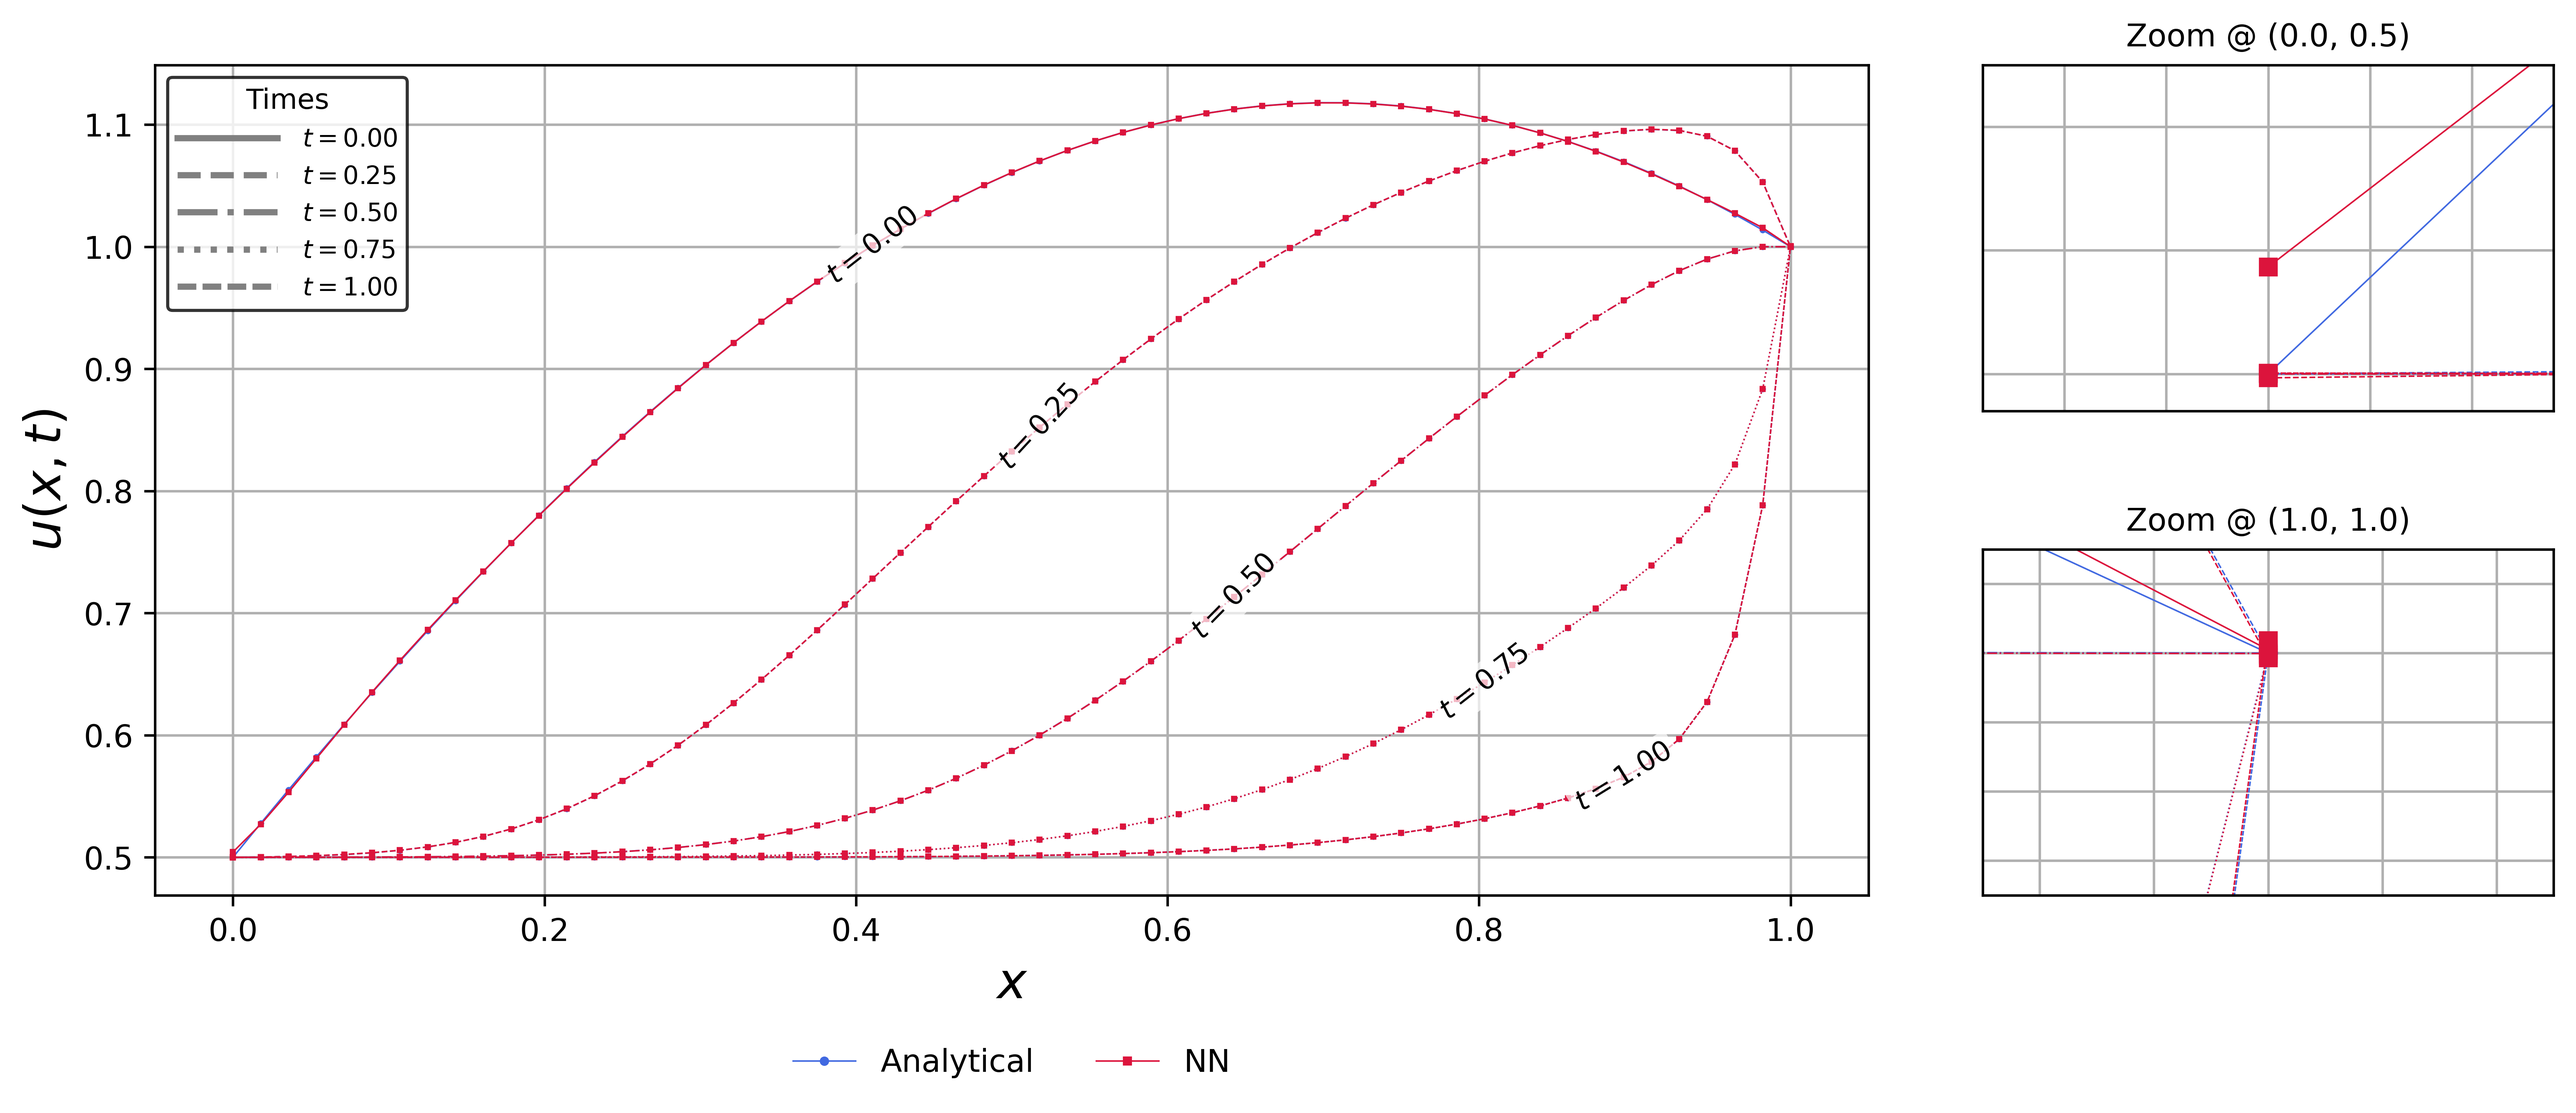
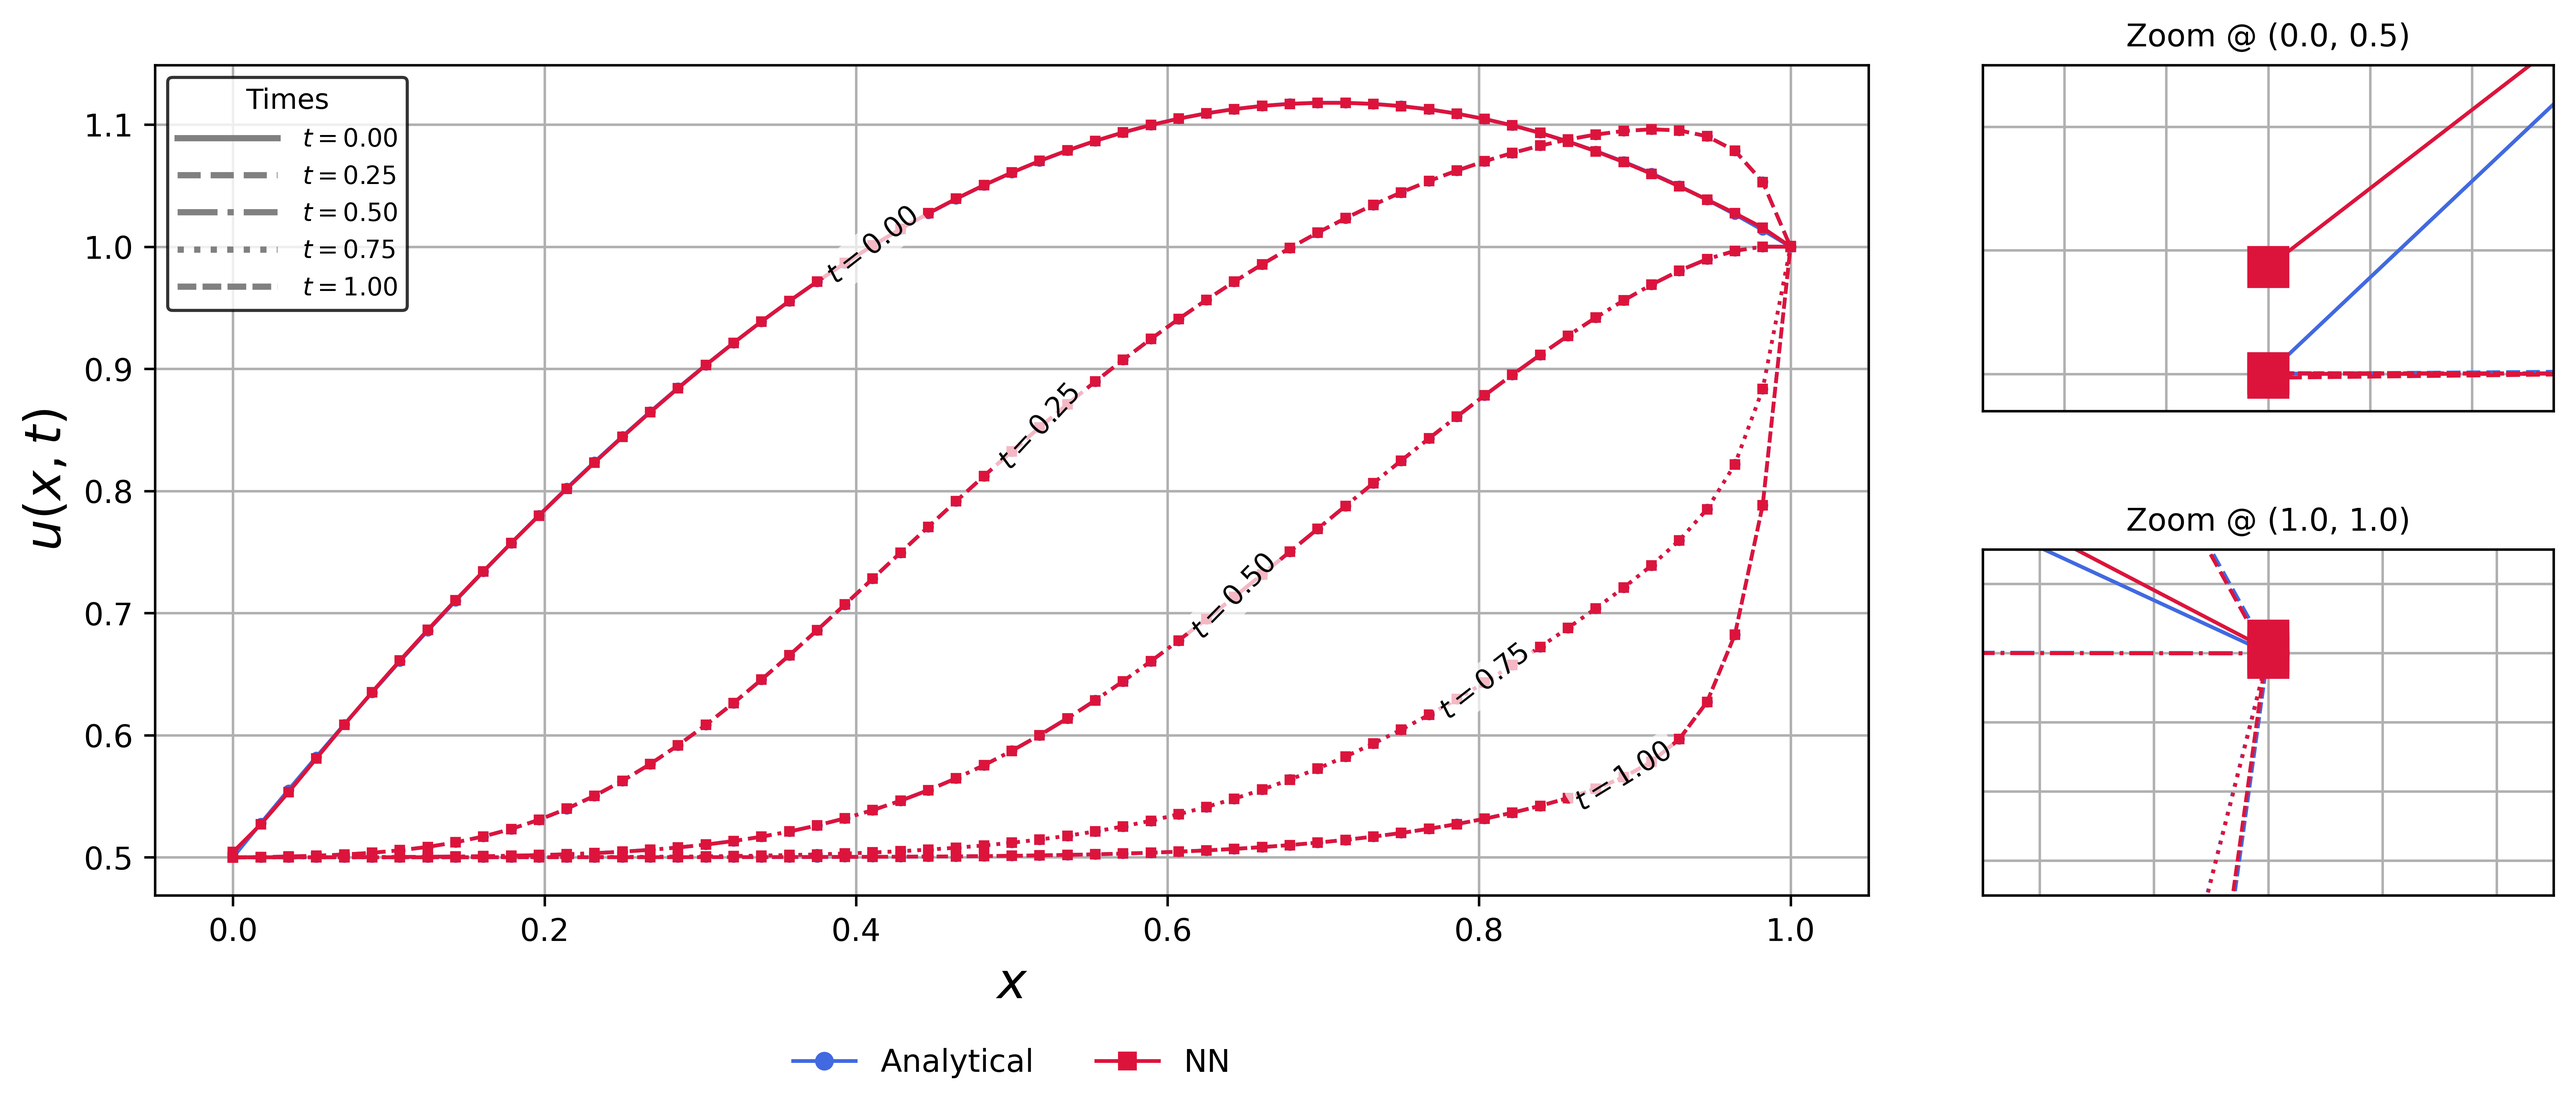
Increase line width in solution-profile figures for readability
The NAS and PINN profile figures (main panel and zoom insets) used a
0.5pt linewidth and 1.0pt markersize that made the curves hard to
distinguish, particularly in the zoomed boundary panels.

diff --git a/scripts/03c_plot_nas.py b/scripts/03c_plot_nas.py
@@ -290,8 +290,8 @@ def plot_nas_profiles(input_path: str | Path, output_path: str | Path) -> None:
         delta=[0.007, 0.005],
         text_locations=[None, None, 0.65, 0.8, 0.9],
         colors={"Analytical": "royalblue", "NN": "crimson"},
-        linewidth=0.5,
-        markersize=1.0,
+        linewidth=1.2,
+        markersize=2.5,
         figsize=(12.0, 5.0),
         show_legend=True,
     )

diff --git a/scripts/04c_plot_pinn.py b/scripts/04c_plot_pinn.py
@@ -138,8 +138,8 @@ def main() -> None:
         delta=postprocess.get("zoom_delta", 0.05),
         text_locations=postprocess.get("text_locations"),
         colors=postprocess.get("colors"),
-        linewidth=0.5,
-        markersize=1.0,
+        linewidth=1.2,
+        markersize=2.5,
     )
 
     plot_training_loss_history(
